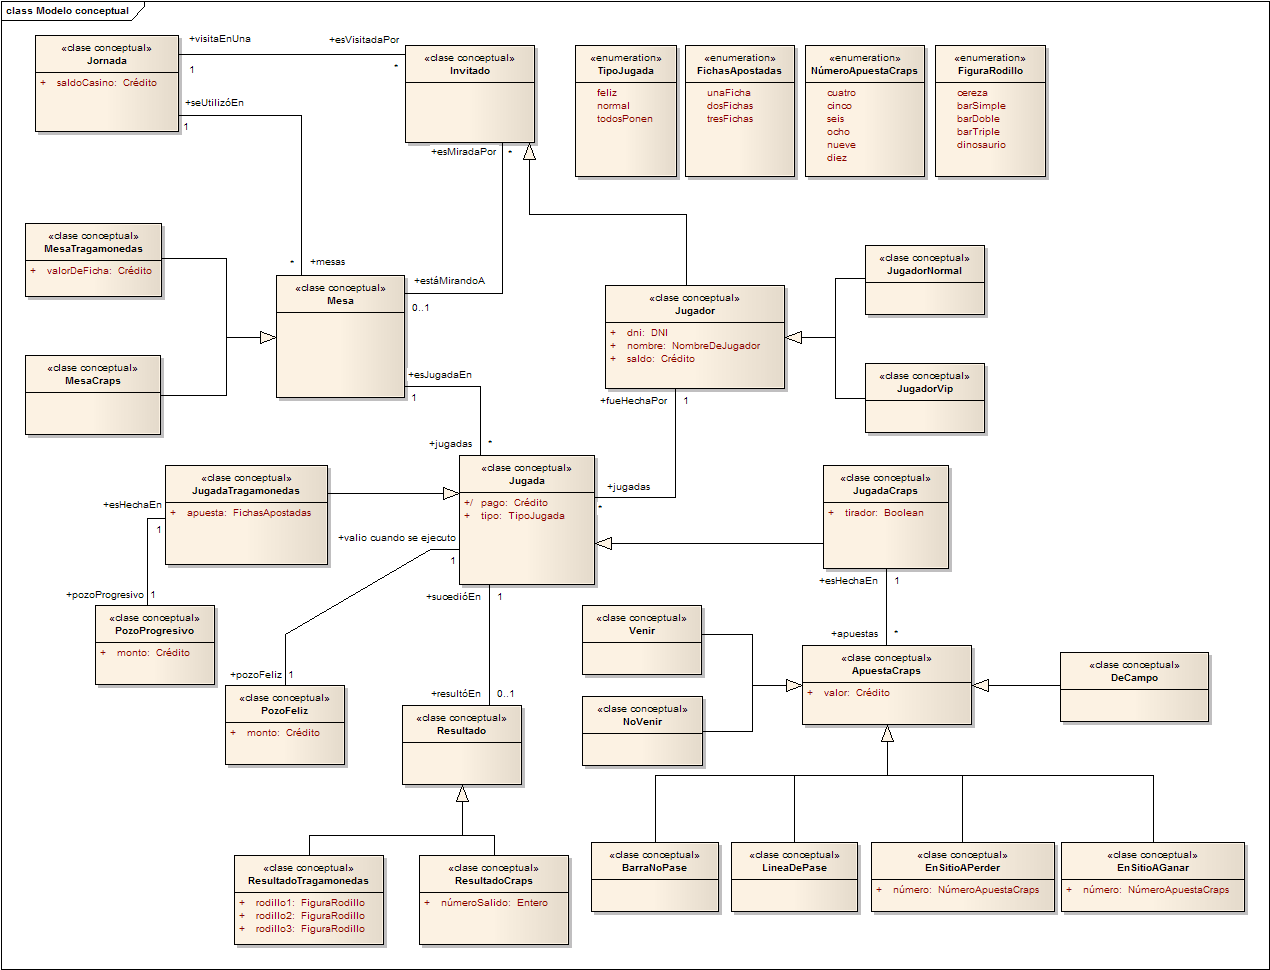
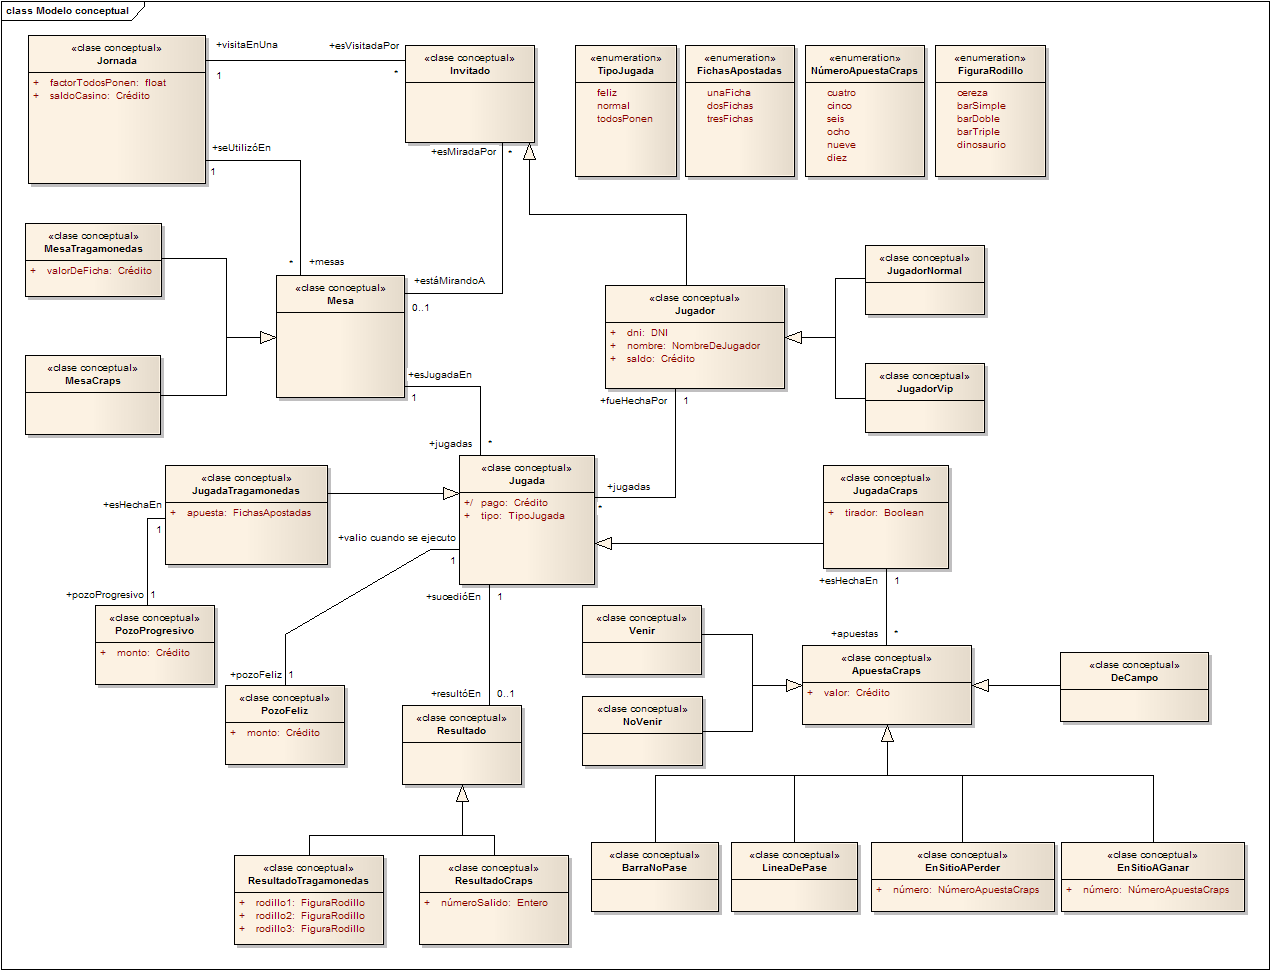
MC

Changed region(s): [[0.0, 0.0309, 0.215, 0.2165], [0.2457, 0.0309, 0.3071, 0.0619], [0.2457, 0.2474, 0.2764, 0.2784]]

diff --git a/tp1/informe/modelo_conceptual.tex b/tp1/informe/modelo_conceptual.tex
@@ -13,15 +13,17 @@ A continuaci'on se comenta el significado y raz'on de ser de las clases principa
 \item \italica{Detalle de movimientos por jugador} 
 \end{itemize}
  es necesario guardar el historial de jugadas realizadas por cada jugador en la jornada. 
-La clase \negrita{jugada}: una jugada realizada por alg'un jugador en alguna mesa en alg'un momento de la jornada del casino. Puede ser de tipo Tragamonedas o Craps; reflejando en el primer caso una apuesta de fichas y la posibilidad de haber girado los rodillos y en el segundo a las apuestas de los jugadores con la posibilidad de haber realizado un tiro (notar que una jugada de Craps \negrita{no} es una ronda sino un tiro de dados). Puede estar asociada a su resultado si es que ya se jug'o, o no tenerlo si es que todav'ia no se tiraron los dados en el caso de Craps o no se giraron los rodillos en el caso de Tragamonedas. 
+La clase \negrita{jugada}: una jugada realizada por alg'un jugador en alguna mesa en alg'un momento de la jornada del casino. Puede ser de tipo Tragamonedas o Craps; reflejando en el primer caso una apuesta de fichas y la posibilidad de haber girado los rodillos y en el segundo a las apuestas de los jugadores con la posibilidad de haber realizado un tiro (notar que una jugada de Craps \negrita{no} es una ronda sino un tiro de dados). Puede estar asociada a su resultado si es que ya se jug'o, o no tenerlo si es que todav'ia no se tiraron los dados en el caso de Craps o no se giraron los rodillos en el caso de Tragamonedas.
+El atributo derivado \italica{pago} refleja el monto otorgado al jugador por parte del casino al resolverse la jugada, incluyendo todas las alteraciones por jugadas y pozos especiales de los distintos tipos de juegos.
 
 \item [Invitado] Es un visitante del casino. Puede mirar las mesas para ver jugar a sus jugadores.
 
 \item [Jugador] Es aquel capaz de realizar jugadas en una mesa. Un jugador \italica{es} a la vez un invitado. Es decir, puede mirar una mesa sin necesidad de jugar.
-\item [Jornada] Representa una jornada del casino, desde que abre hasta que cierra.
+\item [Jornada] Representa una jornada del casino, desde que abre hasta que cierra. El factorTodosPonen es el factor por el que se multiplican los premios de los jugadores en una jugada todosPonen para descontar dicha cantidad del premio y destinarla al pozo feliz.
 \item [Mesa] Es en donde se realizan las jugadas. Puede ser de Tragamonedas o Craps y en una jornada puede recibir cualquier cantidad de jugadas.
 \item [Pozo Progresivo] Modela el pozo progresivo de las m'aquinas tragamonedas. Su asociaci'on con JugadaTragamonedas permite conocer, por medio del atributo monto, el valor del pozo al momento de realizarse la jugada (para las jugadas resueltas indica cu'al era el valor del pozo un instante antes de la resoluci'on de la jugada).
 \item [Pozo Feliz] Modela el pozo feliz del casino. Su asociaci'on con Jugada permite conocer, por medio del atributo monto, el valor del pozo al momento de realizarse la jugada (al igual que el caso anterior, un instante antes de la resoluci'on de la jugada).
+
 \end{description}
 
 
@@ -40,7 +42,7 @@ La clase \negrita{jugada}: una jugada realizada por alg'un jugador en alguna mes
 \item \textit{Para todas las jugadas no resueltas el pozo feliz tiene el mismo monto}
 
 \textbf{context} Jugada \\ \textbf{inv:}
-    Jugada.allInstances()$\rightarrow$select(j $|$ j.result'oEn$\rightarrow$isEmpty())$\rightarrow$forAll($j_{1}$, $j_{2}$ : Jugada $|$ $j_{1}$.pozoFeliz.monto\\ = $j_{2}$.pozoFeliz.monto))
+    Jugada.allInstances()$\rightarrow$select(j $|$ j.result'oEn$\rightarrow$isEmpty())$\rightarrow$forAll($j_{1}$, $j_{2}$ : Jugada $|$ $j_{1}$.pozoFeliz.monto\\ = $j_{2}$.pozoFeliz.monto)
 
 
 
@@ -138,6 +140,12 @@ La clase \negrita{jugada}: una jugada realizada por alg'un jugador en alguna mes
     \textbf{let} correspondePremioDosCerezas : Boolean = Bag{}->including(result.rodillo1)$\rightarrow$including(result.rodillo2)$\rightarrow$including(result.rodillo3)$\rightarrow$count(FiguraRodillo::cereza) = 2
     
     \textbf{let} correspondePremioUnaCereza : Boolean = result.rodillo1 = FiguraRodillo::cereza \textbf{or} result.rodillo2 = FiguraRodillo::cereza \textbf{or} result.rodillo3 = FiguraRodillo::cereza
+    
+    \textbf{let} correspondePremioFeliz : Boolean = self.tipo = TipoJugada::feliz
+    
+    \textbf{let} correspondePremioProgresivo : Boolean = self.tipo = TipoJugada::feliz
+    
+    \textbf{let} factorTodosPonen : Boolean = \textbf{if} self.tipo = TipoJugada::todosPonen \textbf{then} 1 $-$ self.esJugadaEn.seUtiliz'oEn.factorTodosPonen\\ \textbf{else} 1 \textbf{endif}
 
     \textbf{let} premioDinosaurio(fichas : FichasApostadas) : Cr'edito =\\
         \textbf{if} fichas = FichasApostadas::unaFicha \textbf{then} 1000\\
@@ -187,6 +195,7 @@ La clase \negrita{jugada}: una jugada realizada por alg'un jugador en alguna mes
         \textbf{else} \textbf{if} fichas = FichasApostadas::tresFichas \textbf{then} 6\\
         \textbf{endif}
 
+(
     \textbf{if} self.result'oEn$\rightarrow$isEmpty() \textbf{then}\\
         0\\
     \textbf{else}\\
@@ -201,17 +210,11 @@ La clase \negrita{jugada}: una jugada realizada por alg'un jugador en alguna mes
         \textbf{else} 0\\
         \textbf{endif}\\
     \textbf{endif}
+    + \textbf{if} correspondePremioFeliz \textbf{then} self.pozoFeliz.monto\\ \textbf{else} 0 \textbf{endif}\\
+    + \textbf{if} correspondePremioProgresivo \textbf{then} self.pozoProgresivo.monto\\ \textbf{else} 0 \textbf{endif}\\
+) * factorTodosPonen
 
 \clearpage
-
-
-
-\item\textit{Definir Jugada.pago}
-FALTA!!!!
-
-
-\item\textit{QUE ONDA CON LAS APUESTAS DE CRAPS QUE DURAN MAS DE 1 TIRO}
-FALTA!!!!!!!!!!!!!!!!!!!!!!!!!!!!!!!!!!!!!
 
 
 \item\textit{ En una jugada Crap las apuestas en sitio a ganar de un jugador son a distintos n'umeros}
@@ -224,5 +227,14 @@ FALTA!!!!!!!!!!!!!!!!!!!!!!!!!!!!!!!!!!!!!
 
 \textbf{context}  JugadaCrap \\ \textbf{inv:} 
   self.ApuestaEnSitioAPerder$\rightarrow$forAll($a_{1}$, $a_{2}$ : ApuestaEnSitioAPerder  $ | $ $a_{1} <> a_{2} $ \textbf{implies} $a_{1}$.valor $<>$ $a_{2}$.valor)
+
+
+\item\textit{El factor todos ponen de una jornada va de 0 a 1}
+
+\item\textit{Operaci'on reporte \italica{Ranking de jugadores}: }
+
+\item\textit{Operaci'on reporte \italica{Estado actual}: }
+
+\item\textit{Operaci'on reporte \italica{Detalle movimientos por jugador}: }
 
 \end{itemize}
